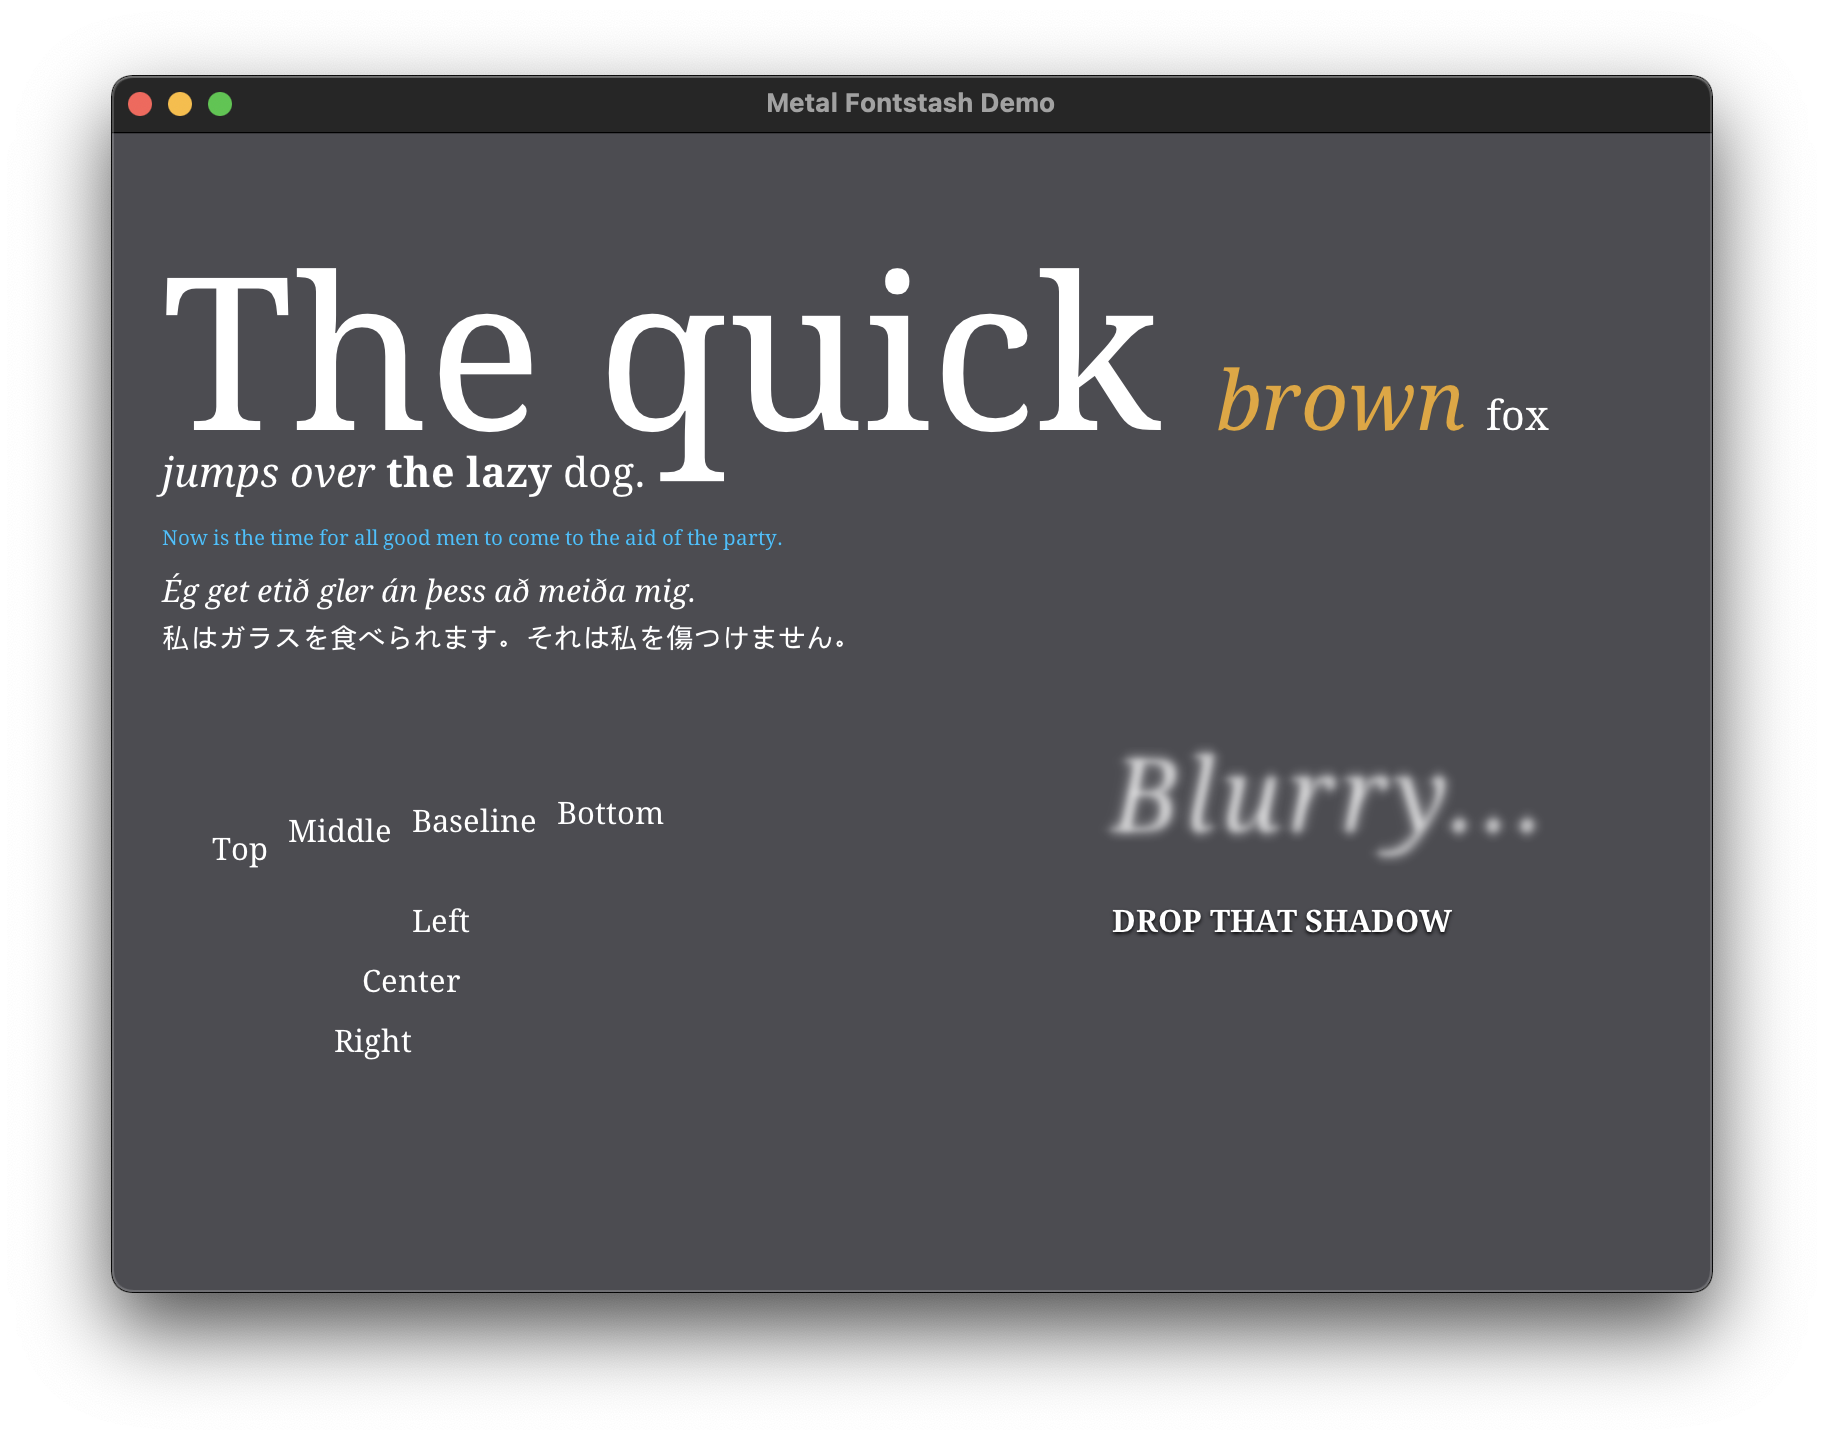
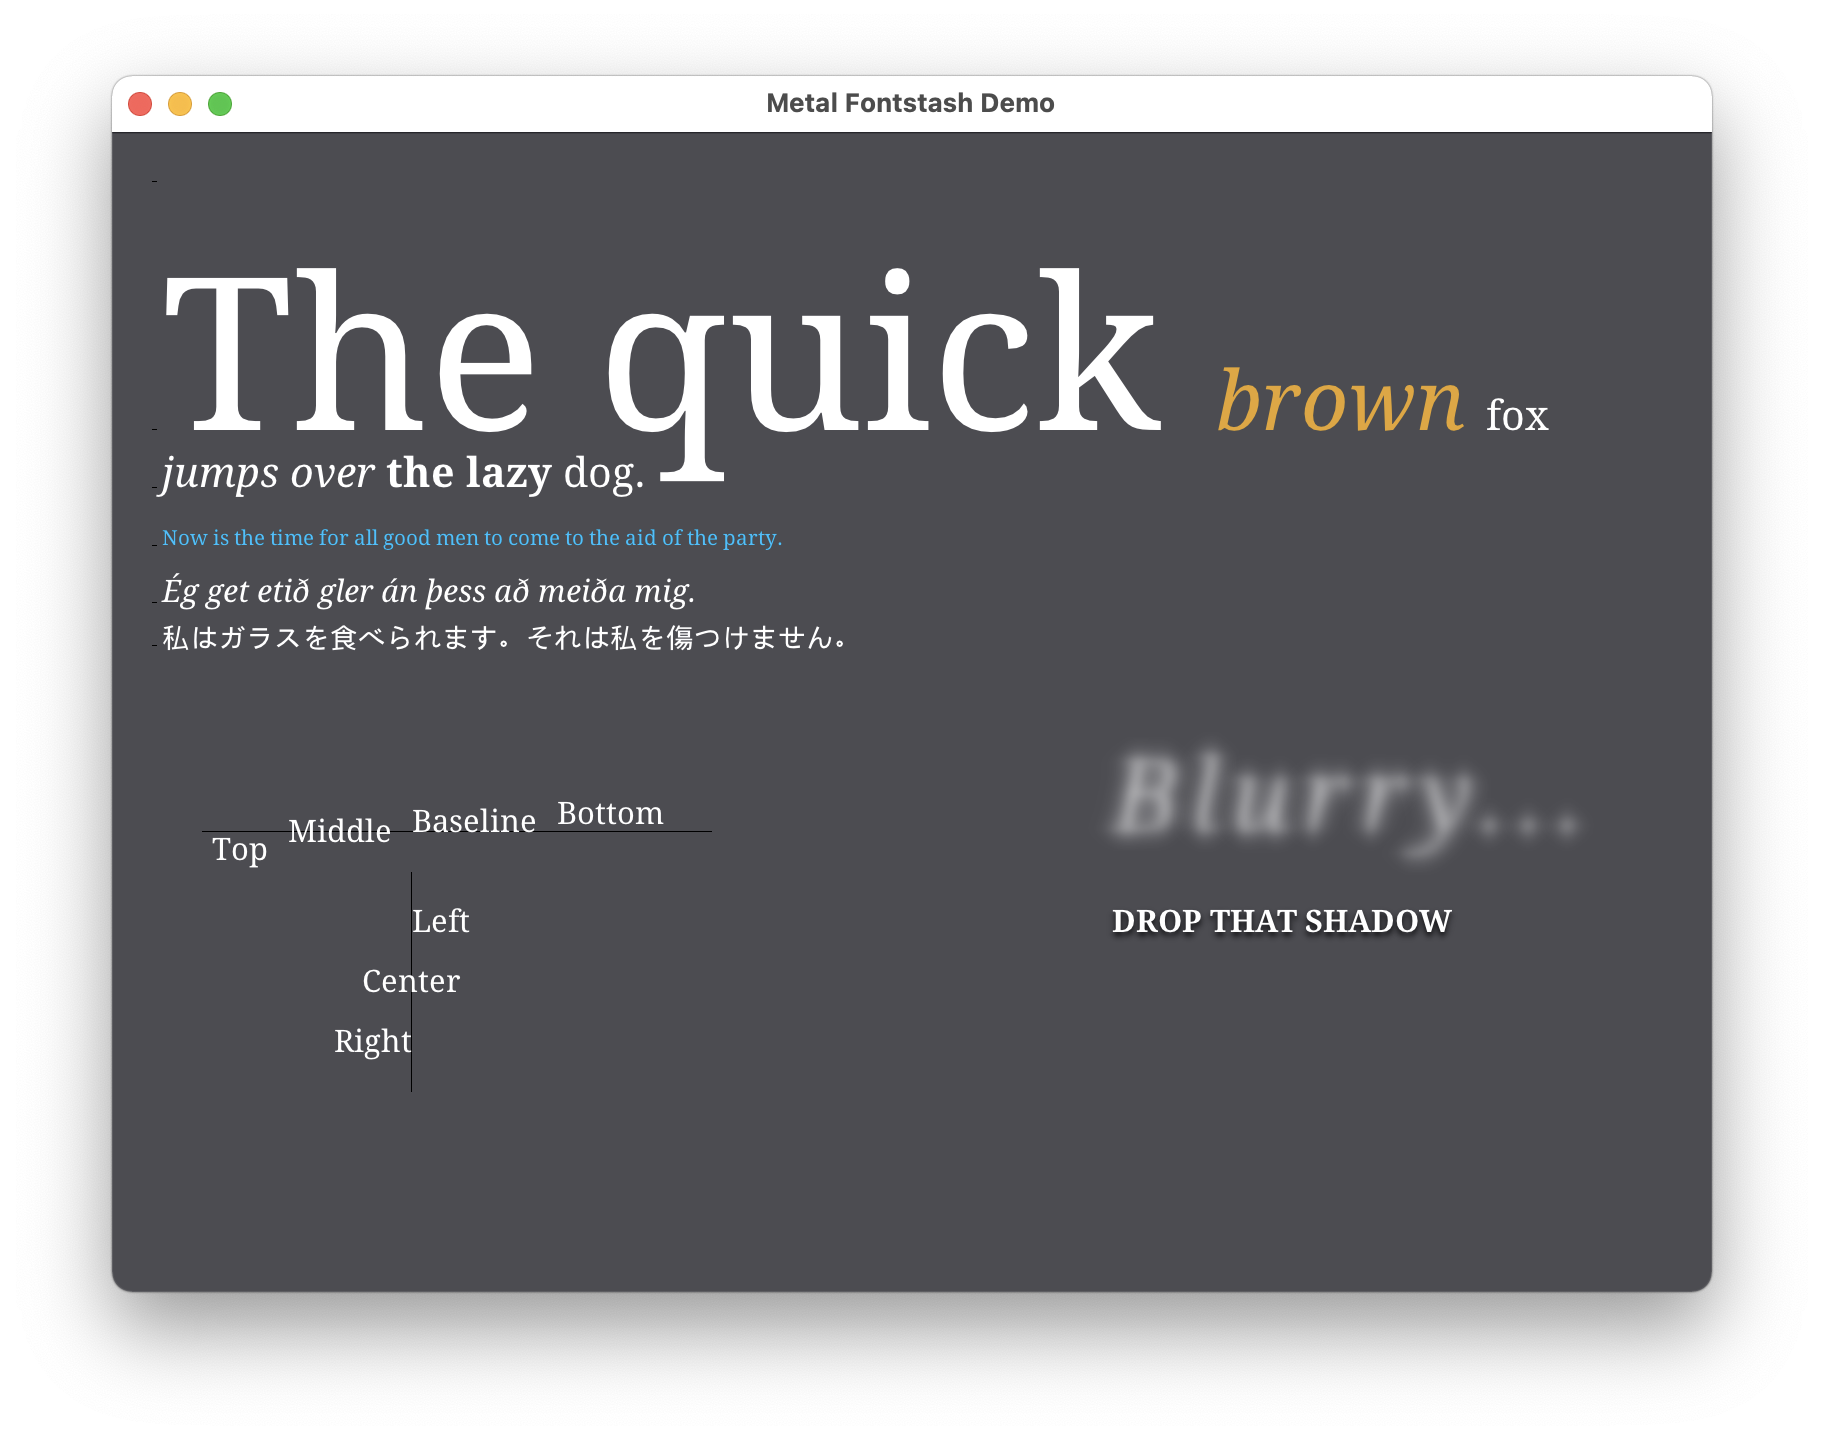
Added line drawing API to Metal backend Implemented line and dash functions in terms of new line API

Changed region(s): [[0.0312, 0.0938, 0.9688, 0.9375], [0.0625, 0.0312, 0.9375, 0.0938], [0.5938, 0.5312, 0.8438, 0.5938]]

diff --git a/sample/app.m b/sample/app.m
@@ -27,22 +27,12 @@
 #define MTLFONTSTASH_IMPLEMENTATION
 #include "mtlfontstash.h"
 
-void dash(float dx, float dy)
-{
-//    glBegin(GL_LINES);
-//    glColor4ub(0,0,0,128);
-//    glVertex2f(dx-5,dy);
-//    glVertex2f(dx-10,dy);
-//    glEnd();
+void line(FONScontext *stash, float sx, float sy, float ex, float ey) {
+    mtlfonsDrawLine(stash, sx, sy, ex, ey);
 }
 
-void line(float sx, float sy, float ex, float ey)
-{
-//    glBegin(GL_LINES);
-//    glColor4ub(0,0,0,128);
-//    glVertex2f(sx,sy);
-//    glVertex2f(ex,ey);
-//    glEnd();
+void dash(FONScontext *stash, float dx, float dy) {
+    line(stash, dx-5, dy, dx-10, dy);
 }
 
 @implementation AppDelegate
@@ -181,7 +171,7 @@ void line(float sx, float sy, float ex, float ey)
     sx = 50; sy = 50;
     dx = sx; dy = sy;
 
-    dash(dx,dy);
+    dash(fs, dx,dy);
 
     fonsClearState(fs);
 
@@ -192,7 +182,7 @@ void line(float sx, float sy, float ex, float ey)
     fonsVertMetrics(fs, NULL, NULL, &lh);
     dx = sx;
     dy += lh;
-    dash(dx,dy);
+    dash(fs, dx,dy);
 
     fonsSetSize(fs, scale * 124.0f);
     fonsSetFont(fs, fontNormal);
@@ -212,7 +202,7 @@ void line(float sx, float sy, float ex, float ey)
     fonsVertMetrics(fs, NULL, NULL, &lh);
     dx = sx;
     dy += lh*1.2f;
-    dash(dx,dy);
+    dash(fs, dx,dy);
     fonsSetFont(fs, fontItalic);
     dx = fonsDrawText(fs, dx,dy,"jumps over ",NULL);
     fonsSetFont(fs, fontBold);
@@ -222,7 +212,7 @@ void line(float sx, float sy, float ex, float ey)
 
     dx = sx;
     dy += lh*1.2f;
-    dash(dx,dy);
+    dash(fs, dx,dy);
     fonsSetSize(fs, scale * 12.0f);
     fonsSetFont(fs, fontNormal);
     fonsSetColor(fs, blue);
@@ -231,7 +221,7 @@ void line(float sx, float sy, float ex, float ey)
     fonsVertMetrics(fs, NULL,NULL,&lh);
     dx = sx;
     dy += lh*1.2f*2;
-    dash(dx,dy);
+    dash(fs, dx,dy);
     fonsSetSize(fs, scale * 18.0f);
     fonsSetFont(fs, fontItalic);
     fonsSetColor(fs, white);
@@ -240,7 +230,7 @@ void line(float sx, float sy, float ex, float ey)
     fonsVertMetrics(fs, NULL,NULL,&lh);
     dx = sx;
     dy += lh*1.2f;
-    dash(dx,dy);
+    dash(fs, dx,dy);
     fonsSetFont(fs, fontJapanese);
     fonsDrawText(fs, dx,dy,"私はガラスを食べられます。それは私を傷つけません。",NULL);
 
@@ -250,7 +240,7 @@ void line(float sx, float sy, float ex, float ey)
     fonsSetColor(fs, white);
 
     dx = scale * 50; dy = scale * 350;
-    line(dx-10,dy,dx+250,dy);
+    line(fs, dx-10,dy,dx+scale * 250,dy);
     fonsSetAlign(fs, FONS_ALIGN_LEFT | FONS_ALIGN_TOP);
     dx = fonsDrawText(fs, dx,dy,"Top",NULL);
     dx += scale * 10;
@@ -264,7 +254,7 @@ void line(float sx, float sy, float ex, float ey)
     fonsDrawText(fs, dx,dy,"Bottom",NULL);
 
     dx = scale * 150; dy = scale * 400;
-    line(dx,dy-30,dx,dy+80.0f);
+    line(fs, dx,dy-scale * 30,dx,dy+scale * 80.0f);
     fonsSetAlign(fs, FONS_ALIGN_LEFT | FONS_ALIGN_BASELINE);
     fonsDrawText(fs, dx,dy,"Left",NULL);
     dy += scale * 30;
@@ -281,8 +271,8 @@ void line(float sx, float sy, float ex, float ey)
     fonsSetSize(fs, scale * 60.0f);
     fonsSetFont(fs, fontItalic);
     fonsSetColor(fs, white);
-    fonsSetSpacing(fs, 5.0f);
-    fonsSetBlur(fs, 10.0f);
+    fonsSetSpacing(fs, scale * 5.0f);
+    fonsSetBlur(fs, scale * 10.0f);
     fonsDrawText(fs, dx,dy,"Blurry...",NULL);
 
     dy += scale * 50.0f;
@@ -291,8 +281,8 @@ void line(float sx, float sy, float ex, float ey)
     fonsSetFont(fs, fontBold);
     fonsSetColor(fs, black);
     fonsSetSpacing(fs, 0.0f);
-    fonsSetBlur(fs, 3.0f);
-    fonsDrawText(fs, dx,dy+2,"DROP THAT SHADOW",NULL);
+    fonsSetBlur(fs, scale * 3.0f);
+    fonsDrawText(fs, dx,dy+(scale * 2),"DROP THAT SHADOW",NULL);
 
     fonsSetColor(fs, white);
     fonsSetBlur(fs, 0);

diff --git a/src/mtlfontstash.h b/src/mtlfontstash.h
@@ -26,6 +26,7 @@ void mtlfonsSetRenderTargetPixelFormat(FONScontext* _Nonnull ctx, MTLPixelFormat
 void mtlfonsSetRenderCommandEncoder(FONScontext* _Nonnull ctx, id<MTLRenderCommandEncoder> _Nullable commandEncoder, MTLViewport viewport);
 void mtlfonsDelete(FONScontext* _Nonnull ctx);
 
+void mtlfonsDrawLine(FONScontext* _Nonnull stash, float x0, float y0, float x1, float y1);
 unsigned int mtlfonsRGBA(unsigned char r, unsigned char g, unsigned char b, unsigned char a);
 
 #endif
@@ -92,7 +93,7 @@ typedef struct MTLFONScontext MTLFONScontext;
 typedef struct {
     float x, y;
     float tx, ty;
-    unsigned char rgba[4];
+    unsigned int rgba;
 } MTLFONSvertex;
 
 static simd_float4x4 float4x4_ortho_projection(float left, float top, float right, float bottom, float near, float far)
@@ -298,6 +299,35 @@ void mtlfonsDelete(FONScontext* ctx)
 unsigned int mtlfonsRGBA(unsigned char r, unsigned char g, unsigned char b, unsigned char a)
 {
     return (r) | (g << 8) | (b << 16) | (a << 24);
+}
+
+void mtlfonsDrawLine(FONScontext* _Nonnull ctx, float x0, float y0, float x1, float y1) {
+    MTLFONScontext* mtl = (MTLFONScontext *)ctx->params.userPtr;
+    if (mtl->atlasTexture == 0) {
+        return;
+    }
+
+    id<MTLRenderCommandEncoder> renderCommandEncoder = mtl->currentRenderCommandEncoder;
+
+    id<MTLRenderPipelineState> pipelineState = mtlfons__renderPipelineState(mtl);
+    [renderCommandEncoder setRenderPipelineState:pipelineState];
+
+    MTLFONSvertex vertexData[] = {
+        { .x = x0, .y = y0, .tx = 0, .ty = 0, .rgba = mtlfonsRGBA(0, 0, 0, 255) },
+        { .x = x1, .y = y1, .tx = 0, .ty = 0, .rgba = mtlfonsRGBA(0, 0, 0, 255) }
+    };
+
+    [renderCommandEncoder setVertexBytes:vertexData length:sizeof(vertexData) atIndex:0];
+
+    MTLViewport viewport = mtl->currentViewport;
+    simd_float4x4 projectionMatrix = float4x4_ortho_projection(viewport.originX, viewport.originY,
+                                                               viewport.width, viewport.height,
+                                                               0, 1);
+    [renderCommandEncoder setVertexBytes:&projectionMatrix length:sizeof(simd_float4x4) atIndex:1];
+
+    [renderCommandEncoder setFragmentTexture:mtl->atlasTexture atIndex:0];
+
+    [renderCommandEncoder drawPrimitives:MTLPrimitiveTypeLine vertexStart:0 vertexCount:2];
 }
 
 NS_ASSUME_NONNULL_END

diff --git a/README.md b/README.md
@@ -7,17 +7,17 @@ for illustrative purposes and should not be used in production code.*
 Font Stash
 ==========
 
-Font stash is a lightweight online font texture atlas builder written in C. It uses [stb_truetype](http://nothings.org) to render fonts on demand to a texture atlas.
+Font Stash is a lightweight online font texture atlas builder written in C. It uses [stb_truetype](http://nothings.org) to render fonts on-demand to a texture atlas.
 
-The code is split in two parts: the font atlas and glyph quad generator [fontstash.h](/src/fontstash.h), and an example Metal backend [mtlfontstash.h](/src/mtlfontstash.h).
+The code is split into two parts: the font atlas and glyph quad generator [fontstash.h](/src/fontstash.h), and an example Metal backend [mtlfontstash.h](/src/mtlfontstash.h).
 
 ## Screenshot
 
-![screenshot of some text rendered witht the sample program](/screenshots/screen-01.png?raw=true)
+![screenshot of some text rendered with the sample program](/screenshots/screen-01.png?raw=true)
 
 ## Example
 ``` C
-// Create Metal stash for 512x512 texture; our coordinate system has zero at top-left.
+// Create a Metal stash for 512x512 texture; our coordinate system has a top-left origin.
 struct FONScontext* fs = mtlfonsCreate(device, 512, 512, FONS_ZERO_TOPLEFT);
 
 // Add font to stash.
@@ -25,8 +25,8 @@ int fontNormal = fonsAddFont(fs, "sans", "DroidSerif-Regular.ttf");
 
 // Render some text
 float dx = 10, dy = 10;
-unsigned int white = glfonsRGBA(255,255,255,255);
-unsigned int brown = glfonsRGBA(192,128,0,128);
+unsigned int white = mtlfonsRGBA(255,255,255,255);
+unsigned int brown = mtlfonsRGBA(192,128,0,128);
 
 fonsSetFont(fs, fontNormal);
 fonsSetSize(fs, 124.0f);
@@ -41,7 +41,7 @@ fonsDrawText(fs, dx,dy,"brown fox", NULL);
 ## Using Font Stash in your project
 
 In order to use fontstash in your own project, just copy fontstash.h, stb_truetype.h, and potentially mtlfontstash.h to your project.
-In one C/C++ define FONTSTASH_IMPLEMENTATION before including the library to expand the font stash implementation in that file.
+In one C/C++ file, define FONTSTASH_IMPLEMENTATION before including the library to expand the font stash implementation in that file.
 
 ``` C
 #include <stdio.h>					// malloc, free, fopen, fclose, ftell, fseek, fread
@@ -55,11 +55,11 @@ In one C/C++ define FONTSTASH_IMPLEMENTATION before including the library to exp
 #include "mtlfontstash.h"
 ```
 
-## Creating new rendering backend
+## Creating a new rendering backend
 
-The default rendering backend uses Metal to render the glyphs. If you want to render the text using some other API, or want tighter integration with your code base you can write your own rendering backend. Take a look at the [mtlfontstash.h](/src/mtlfontstash.h) for reference implementation.
+The default rendering backend uses Metal to render the glyphs. If you want to render text using some other API, or want tighter integration with your code base, you can write your own rendering backend. Take a look at [mtlfontstash.h](/src/mtlfontstash.h) for a reference implementation.
 
-The rendering interface FontStash assumes access to is defined in the FONSparams structure. The renderer initialization function is assumed to fill in the FONSparams structure and call fonsCreateInternal to create the FontStash context.
+To create a font stash object that uses your rendering backend, write a function that populates an instance of the `FONSparams` struct, then calls `fonsCreateInternal` to create the Font Stash context. The various function pointer members of the params struct point to the functions that implement your rendering backend.
 
 ```C
 struct FONSparams {
